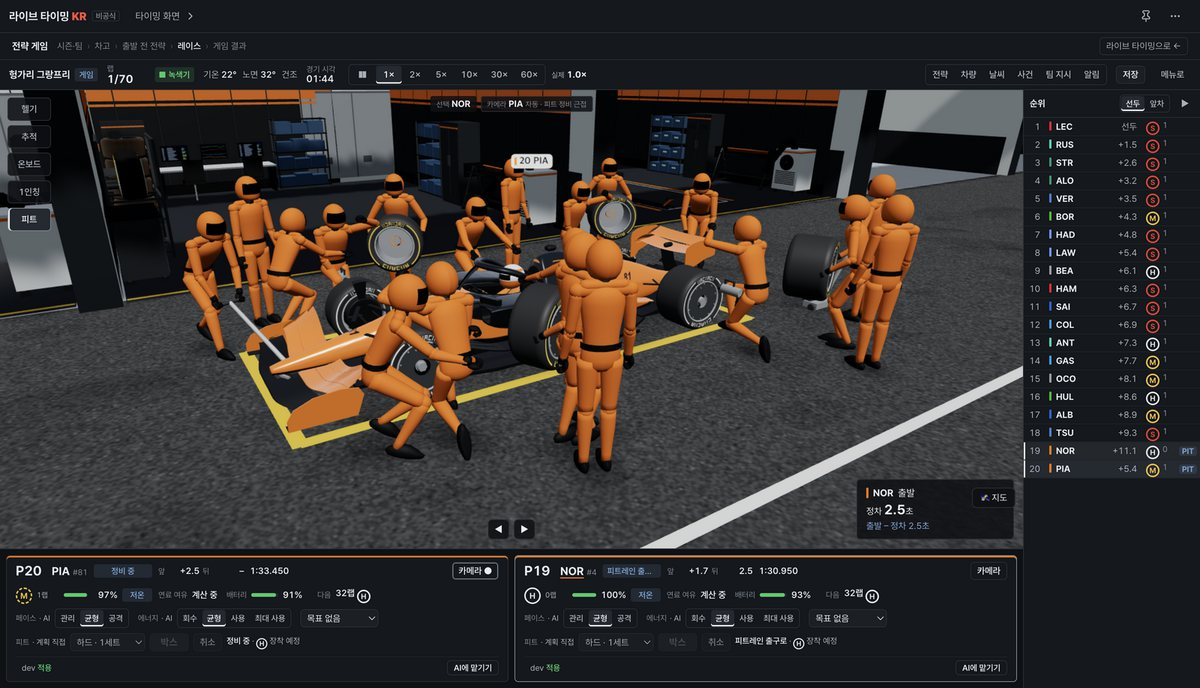
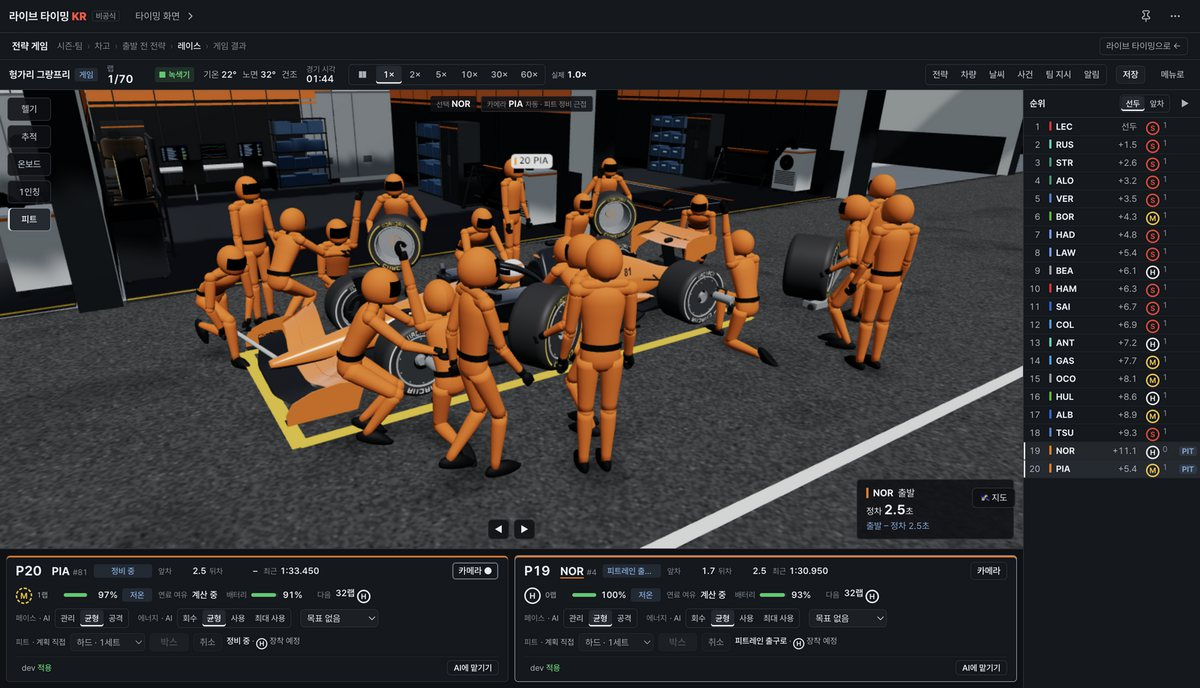
v0.51.0: README photos re-shot, CHANGELOG, version

diff --git a/CHANGELOG.md b/CHANGELOG.md
@@ -4,6 +4,12 @@
 
 > 버전 규칙: 고치는 회차마다 가운데 숫자를 하나 올립니다(0.48.0 → 0.49.0).
 
+## v0.51.0 — 2026-11-01
+- **AI:** 비 오는 동안 느려진 랩을 타이어 마모로 오해해 새 타이어를 연달아 갈던 문제, 비 그친 뒤 건조 타이어끼리 바로 다시 바꾸던 문제를 고침. 곧 비가 올 예보가 있으면 건조 타이어 교체를 미룸. 위험한 출발 확률 조정(0.15 → 0.06, 추정).
+- **검증:** 2026 시즌 게임 경기를 처음부터 실제 완주까지 확인. 게임 화면 확대 125%·150%에서 잘림·겹침 수정.
+- **3D 관전:** 순위 타워 키보드 조작, 온보드에서 드라이버 카드가 헬멧을 가리지 않음.
+- **게임:** 드라이버 패널 간격 표시를 "앞차 / 뒤차" 시간으로 정리. 내용이 깨진 시나리오 파일은 가져오기 단계에서 거절.
+
 ## v0.50.0 — 2026-10-30
 - **점검 결함 수정:** 거절된 명령이 AI 자동 보조를 멈추던 문제(차량·종류별 조작 권한, 적용된 명령만 반영, "AI에 맡기기"), 화면 정보가 뒤 스냅샷 값으로 미리 보이던 문제(공통 표시 시각 계약), 저장 중 보낸 명령이 저장된 것처럼 표시되던 문제(저장 리비전), 일시정지 뒤 1배속으로 돌아가던 문제(요청 배속 유지), Space 키 반복·입력 중 동작.
 - **전략 게임:** 목표 중심 운영 보조, 경기 중 전략 편집과 피트 대안 비교(지금/+1/+2/유지), 타이어 세트 재고(게임용 가정 배정), 계측선 기반 간격, 타이어 온도·에너지 원인 설명, 고배속 알림 정책, 경기 후 분석.

diff --git a/README.md b/README.md
@@ -7,7 +7,7 @@
 **F1 세션을 한국어로 보는 데스크톱 앱**<br>
 다시보기·실시간 타이밍 · 실제 지도 3D 서킷 · 싱글플레이 전략 게임
 
-![version](https://img.shields.io/badge/version-0.50.0-e10600?style=flat-square)
+![version](https://img.shields.io/badge/version-0.51.0-e10600?style=flat-square)
 ![platform](https://img.shields.io/badge/platform-macOS%20%7C%20Windows-lightgrey?style=flat-square)
 ![electron](https://img.shields.io/badge/Electron-44-47848F?style=flat-square&logo=electron&logoColor=white)
 ![three.js](https://img.shields.io/badge/three.js-r186-000000?style=flat-square&logo=threedotjs&logoColor=white)
